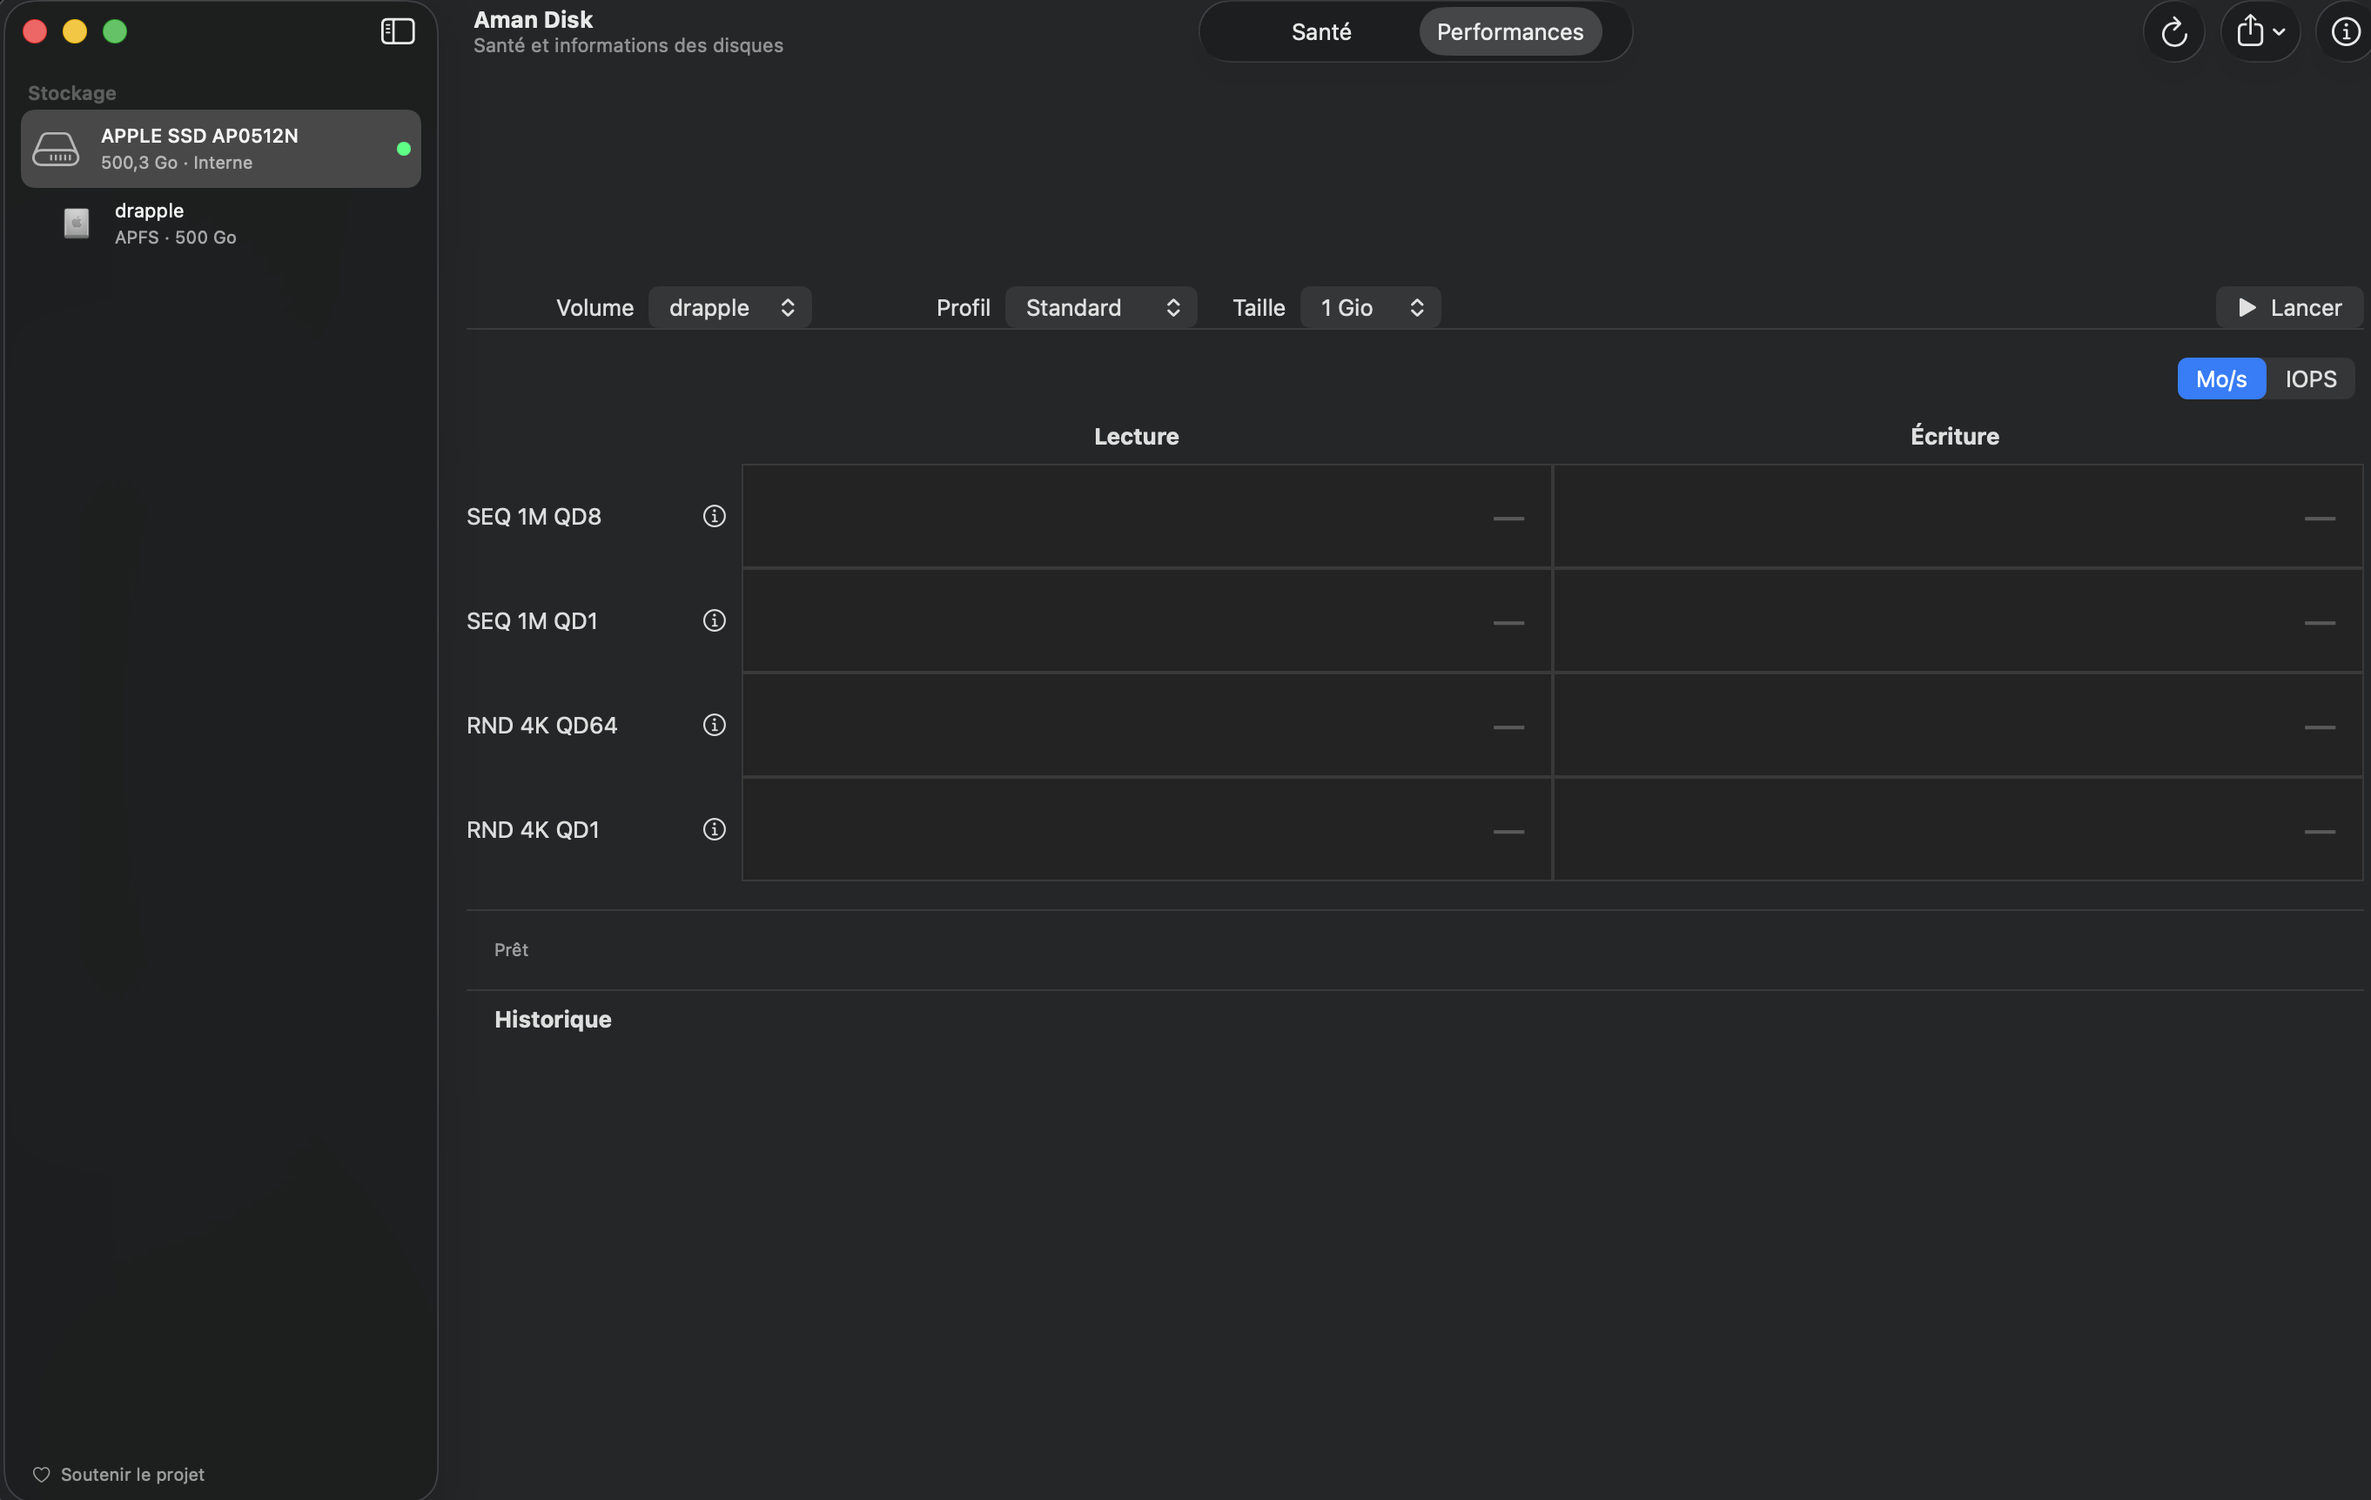
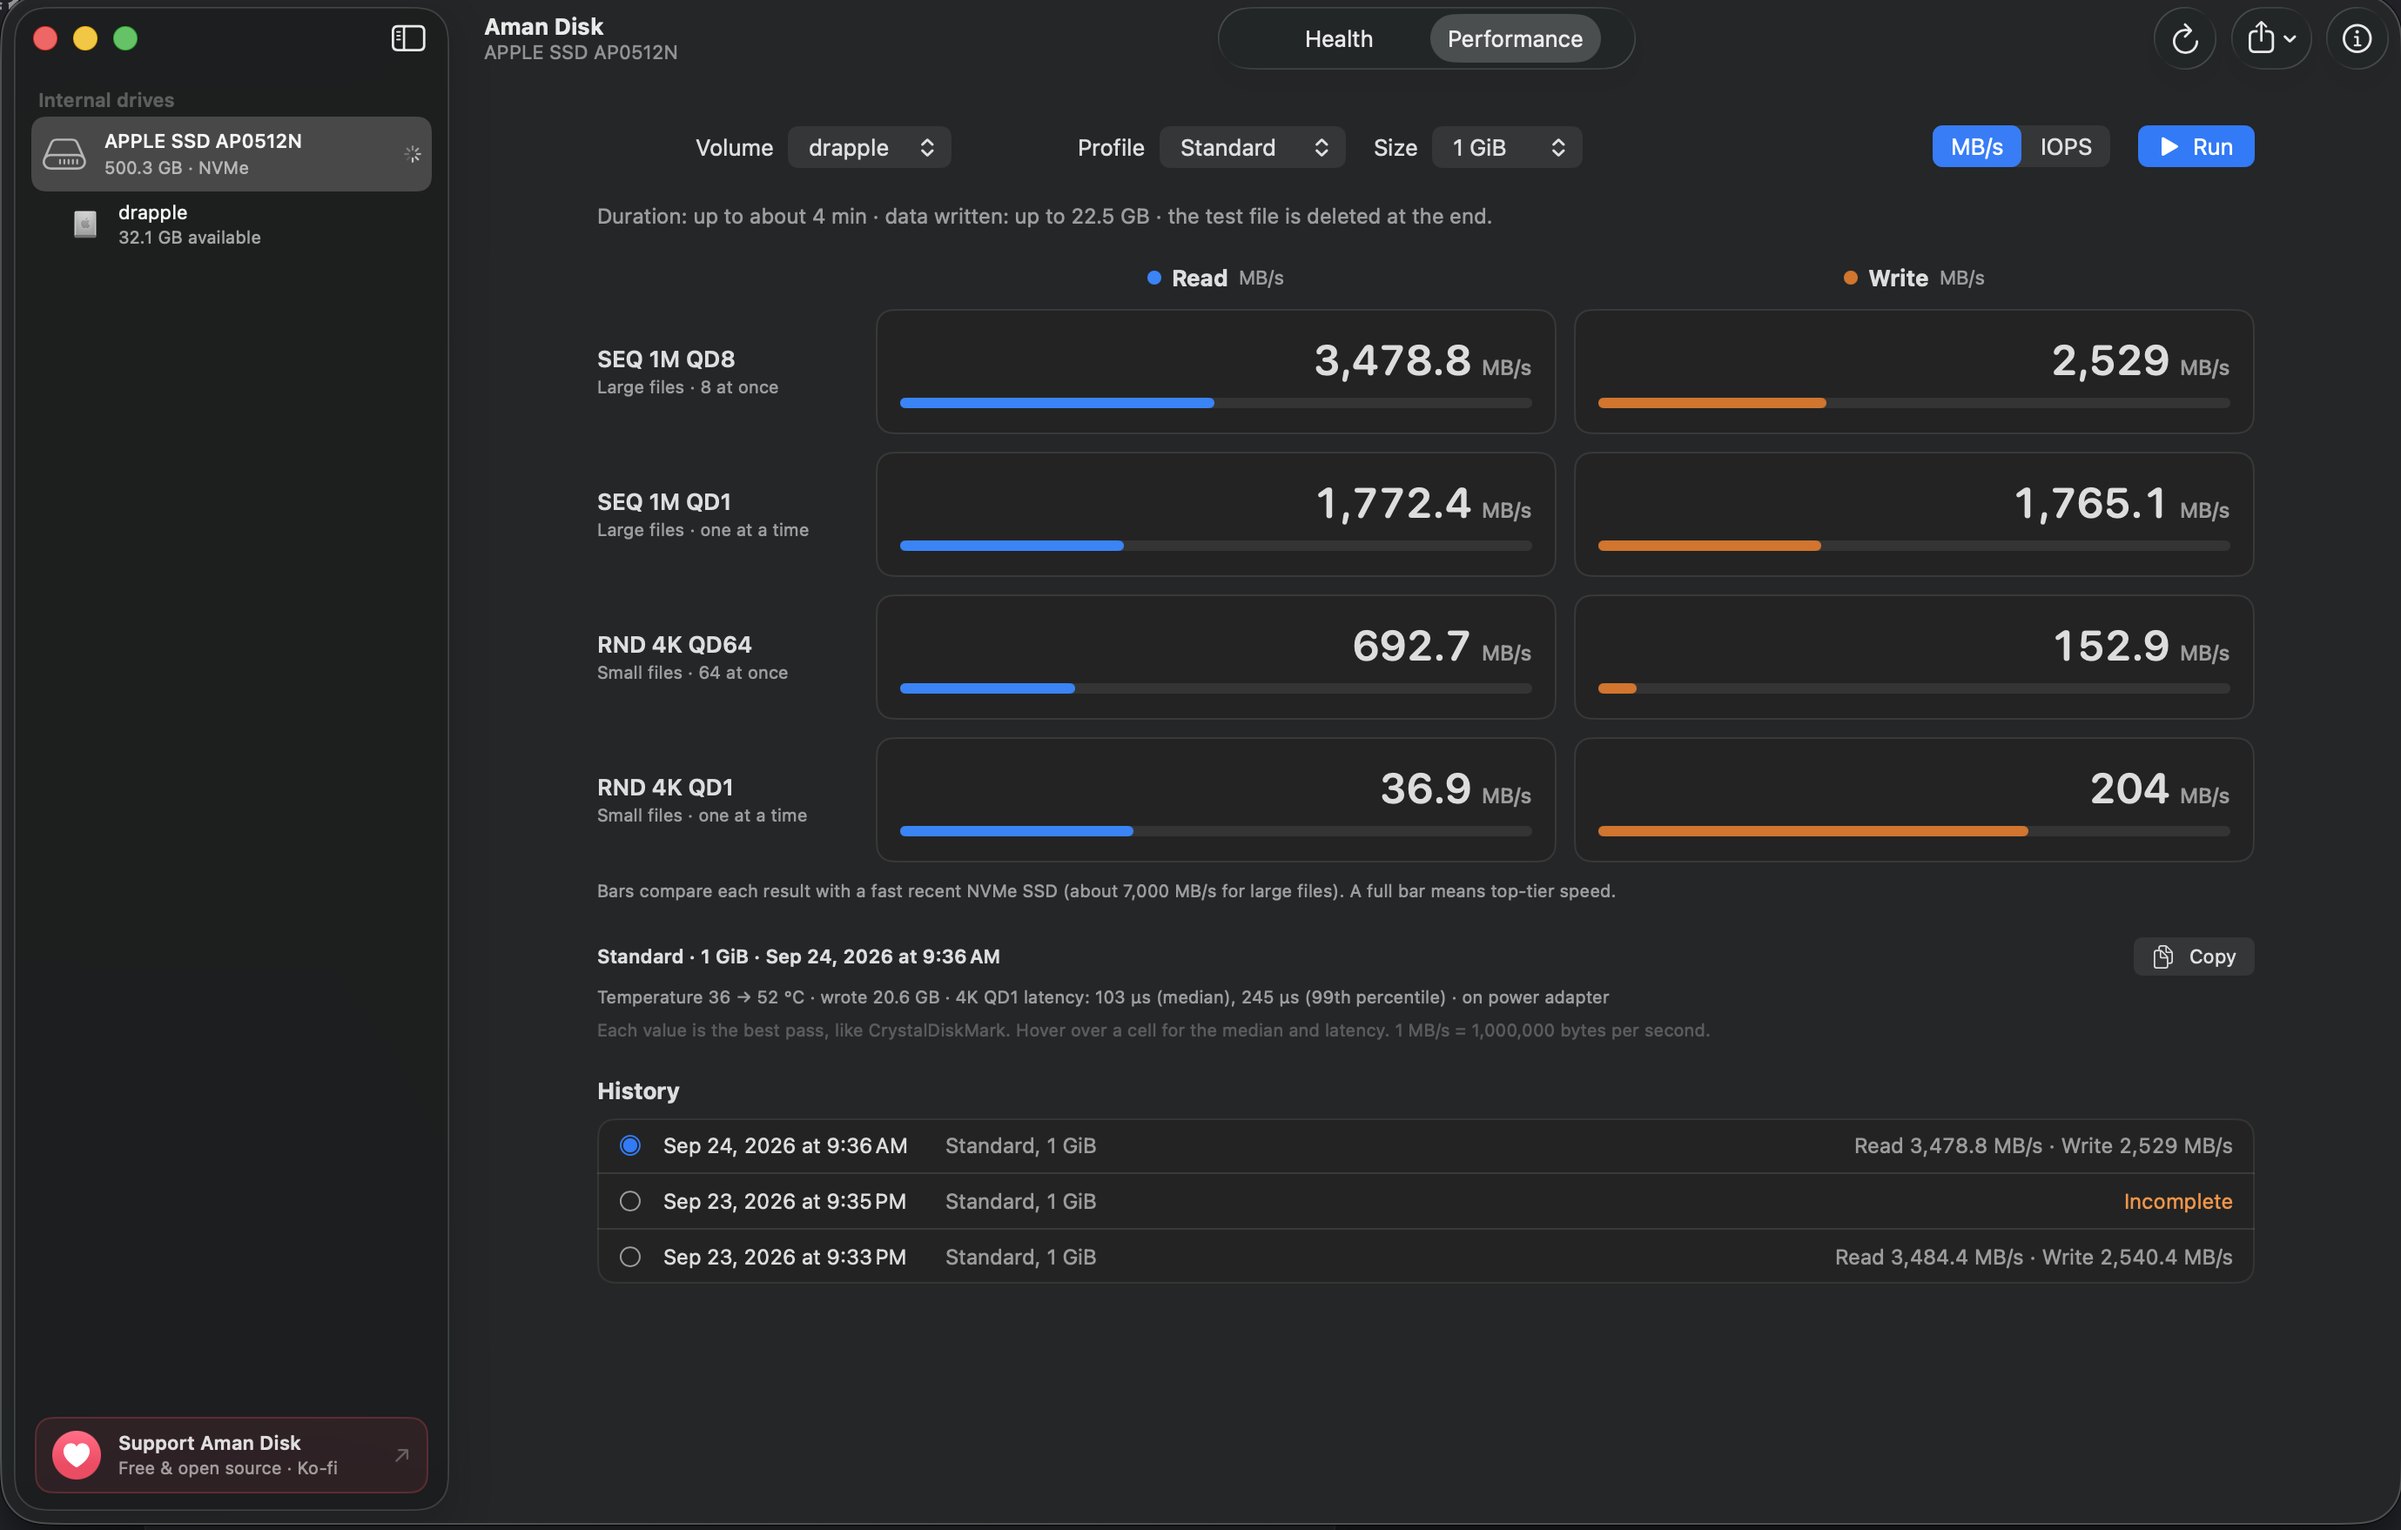
docs: English README, new screenshots, internal files removed from the repository

diff --git a/README.md b/README.md
@@ -6,72 +6,83 @@
   </picture>
 </p>
 
-<p align="center">Santé, température et performances des disques internes de votre Mac, expliquées en français.</p>
+<p align="center"><b>Health, temperature and performance of your Mac's internal drives, explained in plain language.</b></p>
 
 <p align="center">
-  <a href="https://github.com/MidZai/aman_disk/releases/latest"><img src="https://img.shields.io/github/v/release/MidZai/aman_disk?label=T%C3%A9l%C3%A9charger&style=for-the-badge" alt="Télécharger la dernière version"></a>
+  <a href="https://github.com/MidZai/aman_disk/releases/latest">
+    <img src="https://img.shields.io/badge/Download_for_macOS-0A84FF?style=for-the-badge&logo=apple&logoColor=white" alt="Download for macOS" height="44">
+  </a>
 </p>
 
 <p align="center">
-  <a href="https://ko-fi.com/midzai"><img src="https://ko-fi.com/img/githubbutton_sm.svg" alt="Soutenir sur Ko-fi"></a>
+  <sub>Free and open source · macOS 14 or later · Apple Silicon and Intel · <a href="https://github.com/MidZai/aman_disk/releases/latest">Latest version</a></sub>
 </p>
 
-> **In English —** Aman Disk is a free, open-source macOS app that shows the health (S.M.A.R.T.), temperature history and performance of your Mac's internal NVMe and SATA/AHCI drives. It lives in the menu bar, turns its Dock icon into a live health gauge, can alert you when a drive changes state, and never connects to the Internet. The interface is available in English and French.
+<p align="center">
+  <img src="docs/screenshots/health.png" alt="Aman Disk: drive health" width="820">
+</p>
 
-## Captures
+## Screenshots
 
-| Santé du disque | Test de performances |
+| Performance test | Menu bar |
 |---|---|
-| ![Page santé](docs/screenshots/sante.png) | ![Onglet Performance](docs/screenshots/performance.png) |
+| <img src="docs/screenshots/performance.png" alt="Performance test" width="520"> | <img src="docs/screenshots/menu-bar.png" alt="Menu bar panel" width="300"> |
 
-## Fonctions
+## Features
 
-- **Santé NVMe et ATA/AHCI** : lecture S.M.A.R.T. des SSD NVMe, des SSD Apple PCIe AHCI et des disques SATA, avec un état clair (« En bonne santé », « À surveiller », « Défaillance probable ») et la durée de vie restante quand le disque la fournit.
-- **Attributs expliqués en français** : chaque attribut S.M.A.R.T. porte un nom français et une explication ; les valeurs sont converties dans leur unité (°C, heures, To), ou affichées en hexadécimal brut à la demande.
-- **Historique de température** : une mesure toutes les 30 secondes, conservée 24 heures en pleine résolution puis 30 jours en moyennes ; courbes sur 1 heure, 24 heures, 7 jours et 30 jours. Chaque mesure ajoute environ 170 octets à l'historique : l'app n'use pas le disque qu'elle surveille.
-- **Test de performances** : lecture et écriture séquentielles et aléatoires ; le fichier de test est toujours supprimé.
-- **Barre des menus** : état et température de chaque disque interne, courbe de la dernière heure ; l'app peut y rester quand la fenêtre est fermée.
-- **Icône du Dock vivante** : l'anneau de l'icône suit la santé du disque de démarrage.
-- **Alertes** : notification quand un disque change d'état, chauffe trop longtemps ou passe sous 50 %, 25 % ou 10 % de durée de vie (désactivées par défaut).
-- **Rapports** : export PDF, texte ou JSON, avec numéro de série masqué par défaut.
+- **NVMe and ATA/AHCI health**: reads S.M.A.R.T. data from NVMe SSDs, Apple PCIe AHCI SSDs and SATA drives, with a clear status (“Healthy”, “Needs attention”, “Likely failing”) and the remaining life when the drive reports it.
+- **Attributes explained**: every S.M.A.R.T. attribute has a readable name and an explanation; values are converted to their unit (°C, hours, TB), or shown as raw hexadecimal on request.
+- **Temperature history**: one reading every 30 seconds, kept at full resolution for 24 hours, then as averages for 30 days; charts over 1 hour, 24 hours, 7 days and 30 days. Each reading adds about 170 bytes to the history, so the app doesn't wear out the drive it watches.
+- **Performance test**: sequential and random reads and writes. The test file is always deleted.
+- **Menu bar**: status and temperature of each internal drive, with the last hour's curve. The app can stay there when its window is closed.
+- **Live Dock icon**: the ring around the icon follows the health of the startup drive.
+- **Alerts**: a notification when a drive changes status, stays too hot, or drops below 50 %, 25 % or 10 % of its life (off by default).
+- **Reports**: PDF, text or JSON export, with the serial number masked by default.
+- **English and French** interface.
 
-## Confidentialité
+## Privacy
 
-- **Aucune connexion réseau** : Aman Disk ne se connecte jamais à Internet. Pas de télémétrie, pas de vérification de mise à jour. Les seuls liens (GitHub, dont « Voir les nouvelles versions… », et Ko-fi) s'ouvrent dans votre navigateur, à votre demande.
-- **Aucune donnée envoyée** : l'historique et les résultats restent sur votre Mac, dans `~/Library/Application Support/io.github.aman-disk.AmanDisk/`.
-- **Aman ne modifie jamais vos données.** Seule exception : il active S.M.A.R.T. s'il est désactivé (réglable). L'app ne demande jamais de mot de passe administrateur. Le test de performances, lancé par vous, écrit un fichier temporaire, supprimé ensuite, même après un arrêt brutal de l'app.
+- **No network connection**: Aman Disk never connects to the Internet. No telemetry, no update check. The only links (GitHub, including “Check for New Versions…”, and Ko-fi) open in your browser when you click them.
+- **No data sent**: history and results stay on your Mac, in `~/Library/Application Support/io.github.aman-disk.AmanDisk/`.
+- **Aman never changes your data.** One exception: it turns on S.M.A.R.T. if it's turned off (you can disable this in Settings). The app never asks for an administrator password. The performance test, which you start yourself, writes a temporary file that is deleted afterwards, even if the app is force-quit.
 
 ## Installation
 
-1. Téléchargez `Aman-Disk-0.9.1.dmg` depuis la [page des versions](https://github.com/MidZai/aman_disk/releases/latest).
-2. Ouvrez le DMG et glissez **Aman Disk** dans le dossier **Applications**.
-3. L'app n'est pas notariée par Apple : au premier lancement, macOS la bloque. Allez dans **Réglages Système › Confidentialité et sécurité** et cliquez sur **« Ouvrir quand même »**. Il suffit de le faire une fois.
+1. Download `Aman-Disk-0.9.1.dmg` from the [releases page](https://github.com/MidZai/aman_disk/releases/latest).
+2. Open the DMG and drag **Aman Disk** into the **Applications** folder.
+3. The app isn't notarized by Apple, so macOS blocks it on first launch. Go to **System Settings › Privacy & Security** and click **“Open Anyway”**. You only need to do this once.
 
-### Compiler depuis les sources
+### Build from source
 
 ```bash
-scripts/bundle.sh --release   # Aman Disk.app, binaire universel
+scripts/bundle.sh --release   # Aman Disk.app, universal binary
 scripts/make-dmg.sh           # dist/Aman-Disk-0.9.1.dmg
-scripts/test.sh               # toute la suite de tests (fonctionne aussi sans Xcode)
+scripts/test.sh               # full test suite (also works without Xcode)
 ```
 
-Le mode démo (`DISKHEALTH_DEMO=1`) affiche des disques fictifs dans tous les états.
+Demo mode (`DISKHEALTH_DEMO=1`) shows fictional drives in every state.
 
-## Compatibilité
+## Compatibility
 
-- **macOS 14 Sonoma** ou plus récent.
-- Mac **Apple Silicon** et **Intel** (binaire universel).
-- Disques **internes** NVMe et AHCI/SATA, y compris Fusion Drive.
-- Disques externes et USB : pas encore pris en charge.
+- **macOS 14 Sonoma** or later.
+- **Apple Silicon** and **Intel** Macs (universal binary).
+- **Internal** NVMe and AHCI/SATA drives, including Fusion Drive.
+- External and USB drives: not supported yet.
 
-## Pourquoi « Aman » ?
+## Why “Aman”?
 
-*Aman* signifie « eau » en kabyle, d'où la goutte au centre de l'icône. L'anneau qui l'entoure est aussi la lettre ⴰ de l'alphabet tifinagh.
+The name has three meanings, and all of them fit an app that watches over your drives:
 
-## Soutenir le projet
+- In **Arabic**, *amān* (أمان) means safety and security, and also peace of mind: the calm of knowing you are protected.
+- In **Kabyle**, *aman* means water, hence the drop at the center of the icon. The ring around it is also the letter ⴰ of the Tifinagh alphabet.
+- In **Tolkien**'s world, Aman is the Blessed Realm, the land in the far West where the Valar live. It is Gandalf's original home: before coming to Middle-earth, he lived there as Olórin, in the gardens of Lórien in Valinor.
 
-Aman Disk est gratuit et open source. Si l'app vous est utile, vous pouvez soutenir son développement sur [Ko-fi](https://ko-fi.com/midzai).
+## Support the project
 
-## Licence
+Aman Disk is free and open source. If you find it useful, you can support its development on Ko-fi.
 
-[MIT](LICENSE) © 2026 Aman Disk contributors.
+<a href="https://ko-fi.com/midzai"><img src="https://ko-fi.com/img/githubbutton_sm.svg" alt="Support on Ko-fi"></a>
+
+## License
+
+[MIT](LICENSE) © 2026 MidZai
